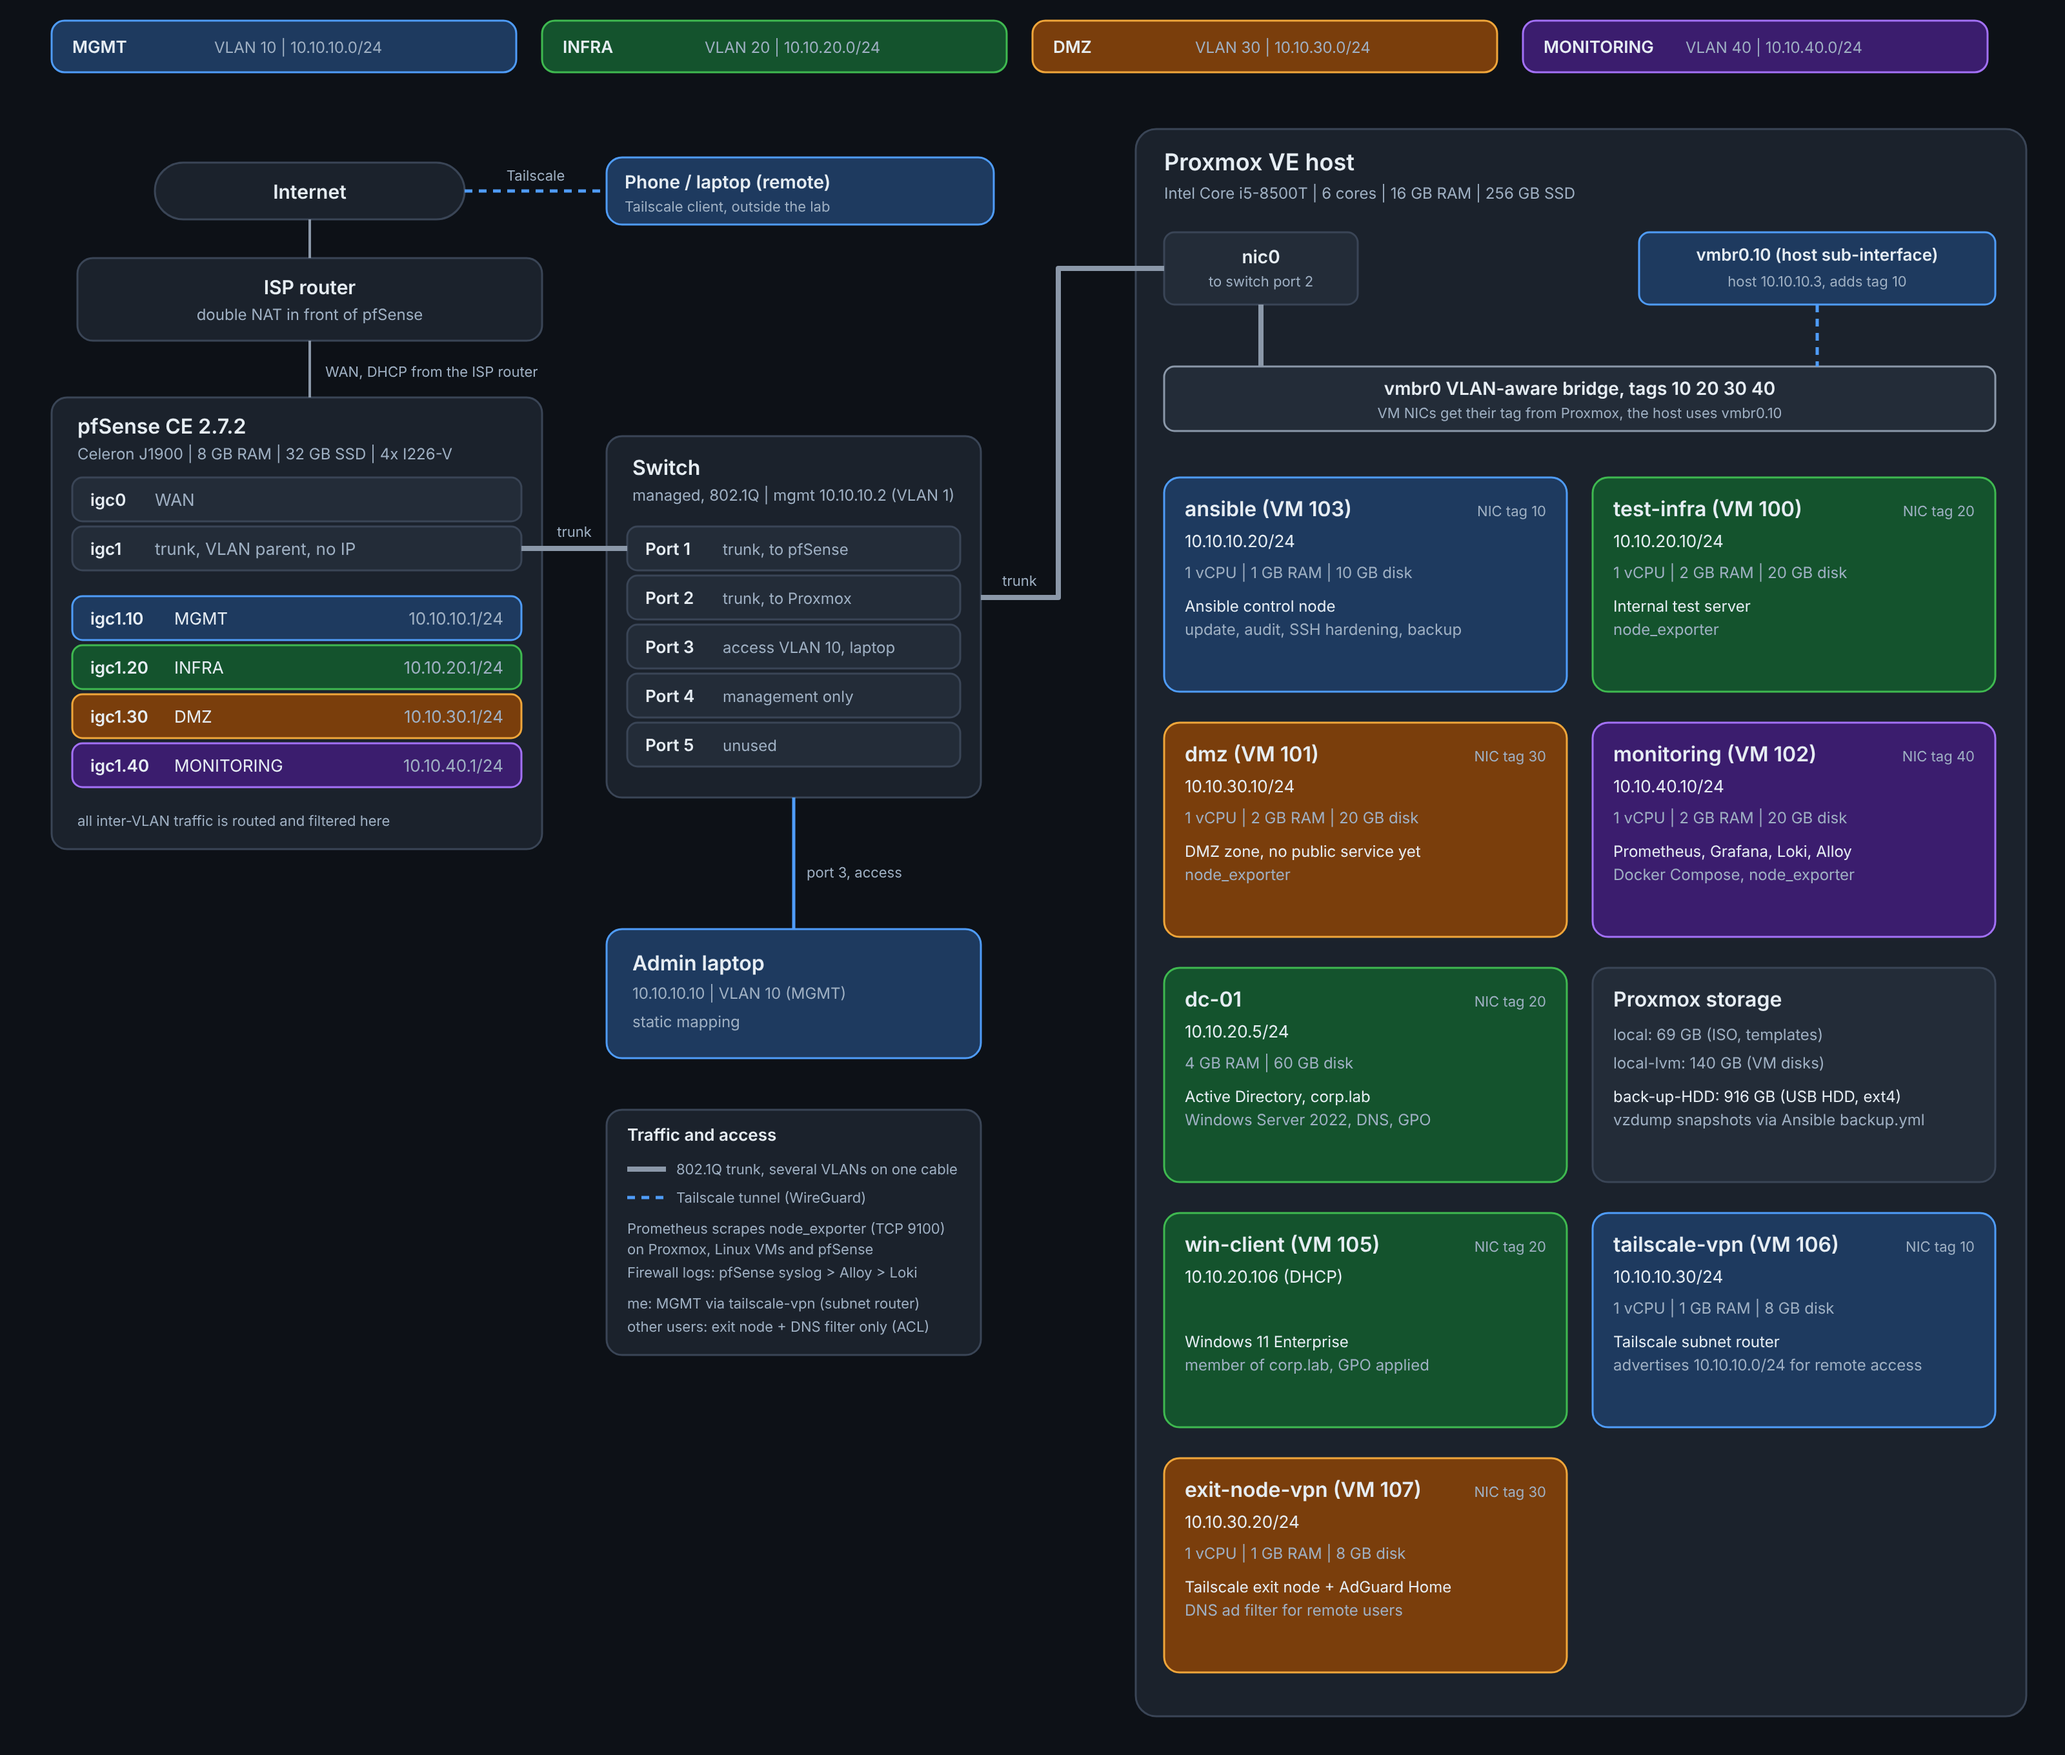
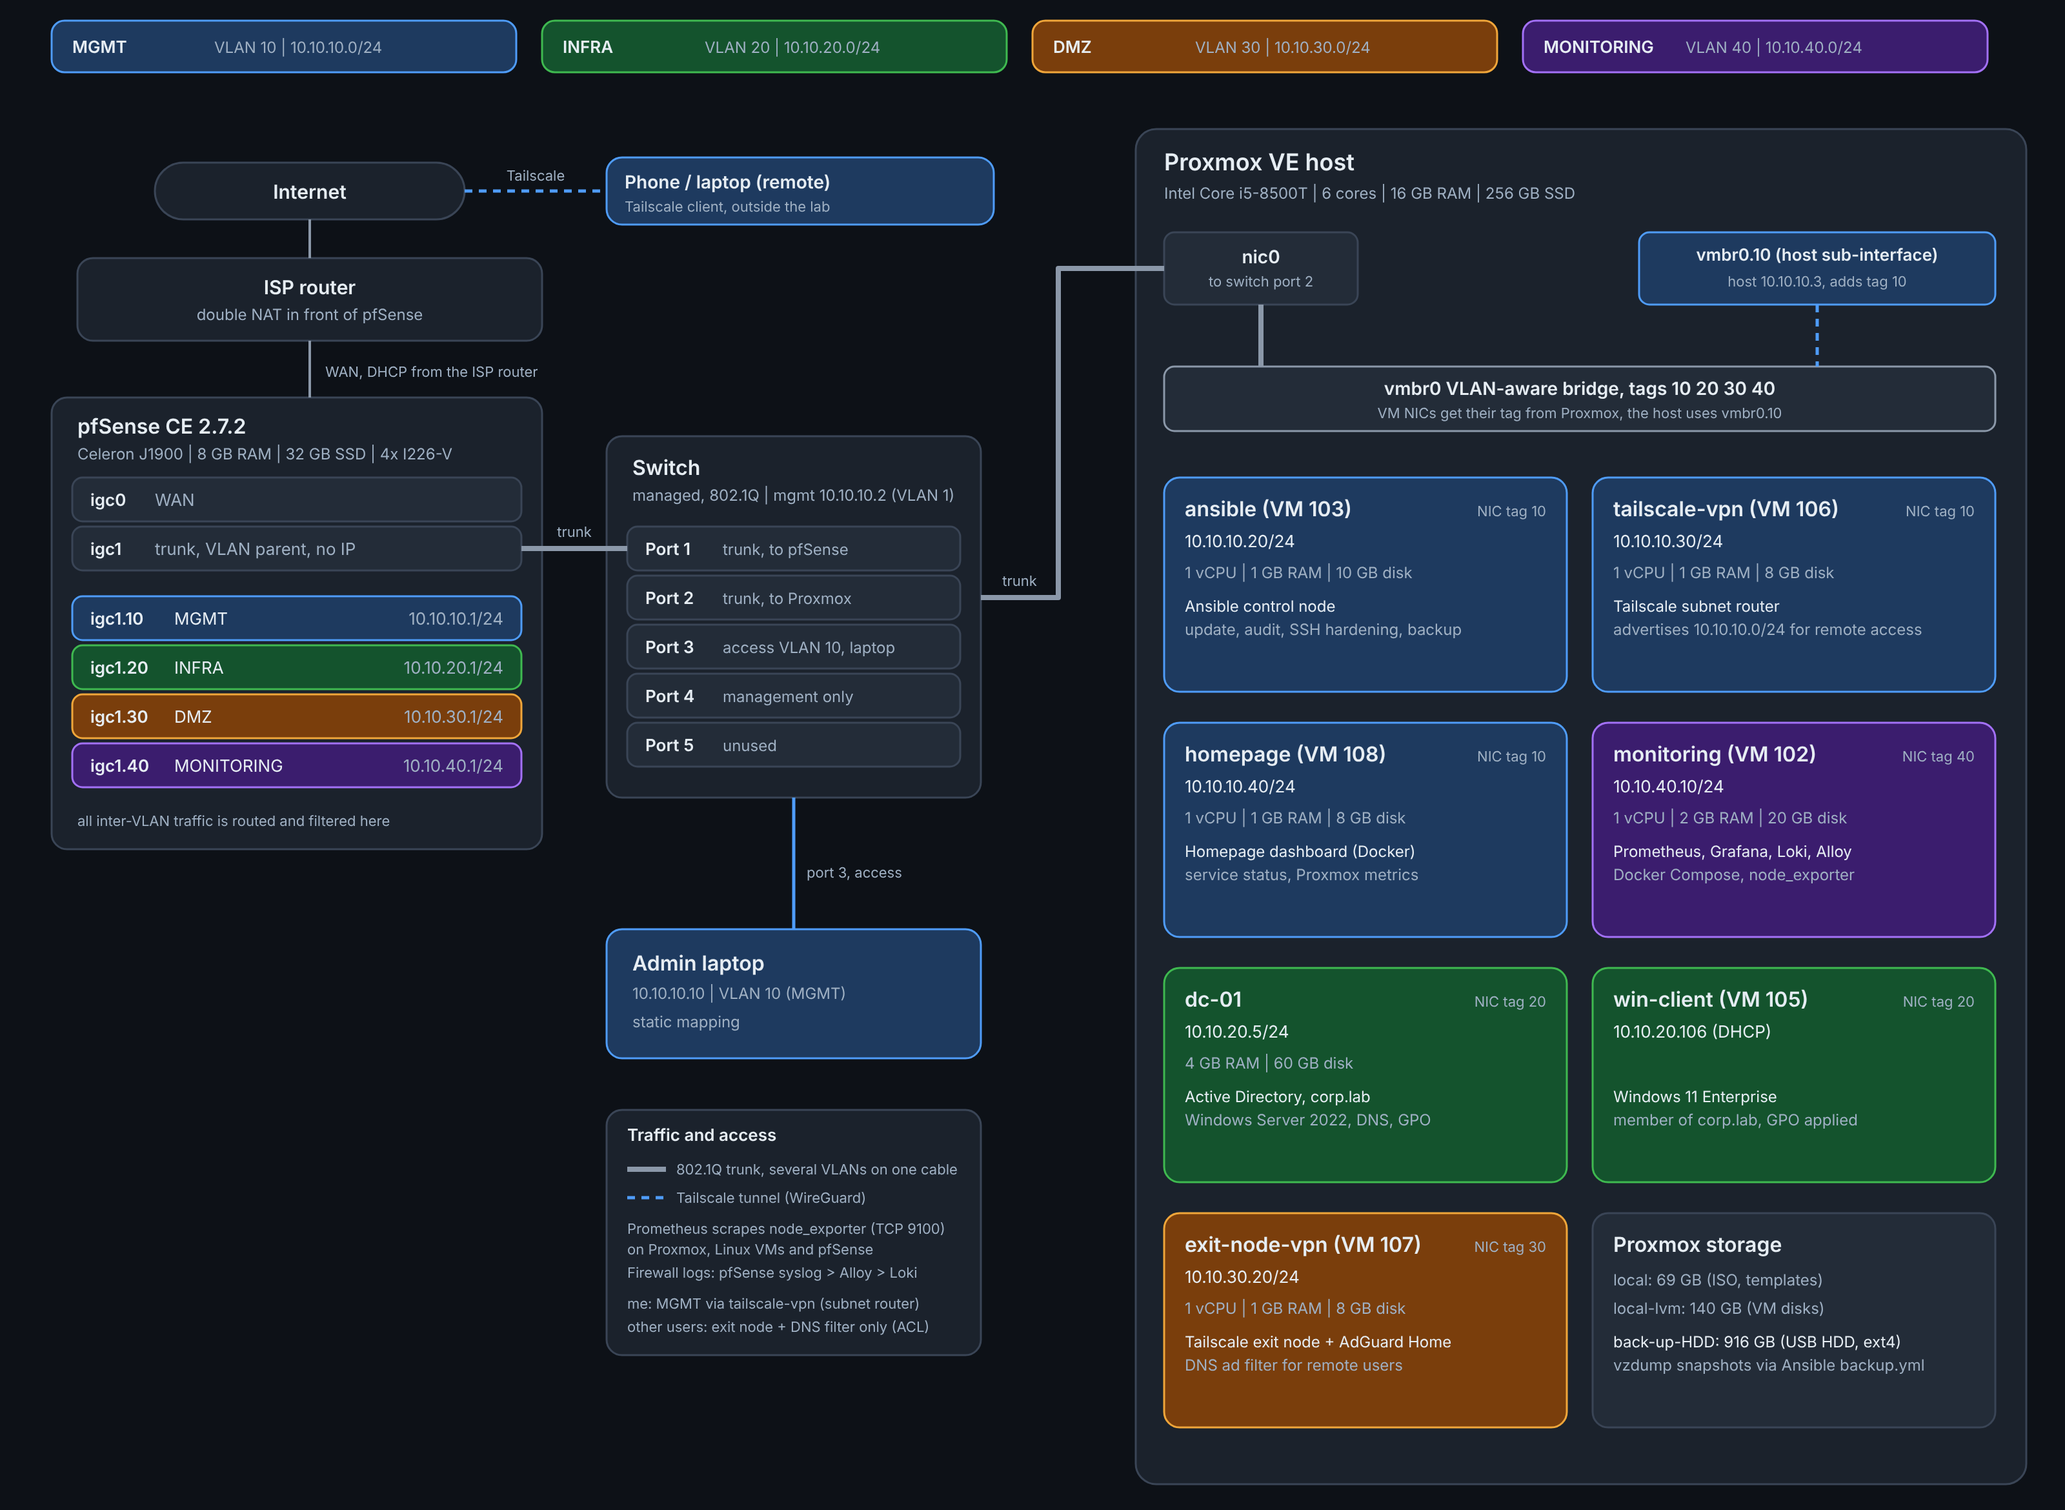
Homepage dashboard added, test vms removed, updated docs and diagram

diff --git a/docs/03-firewall-rules.md b/docs/03-firewall-rules.md
@@ -16,7 +16,7 @@
 | RFC1918 | Network | 10.0.0.0/8, 172.16.0.0/12, 192.168.0.0/16 |
 | web_ports | Port | 80, 443 |
 | ADMIN_HOSTS | Host | 10.10.10.10 (admin laptop), 10.10.10.20 (ansible) |
-| NODE_EXPORTERS | Host | 10.10.10.3, 10.10.20.10, 10.10.30.10, 10.10.40.1 |
+| NODE_EXPORTERS | Host | 10.10.10.3, 10.10.40.1 |
 
 ## Pattern
 
@@ -24,27 +24,33 @@ For each restricted zone the order is: narrow *pass* exceptions, then a logged *
 
 ## MGMT (VLAN 10)
 
-Admin workstation: 10.10.10.10 (static mapping). Ansible control node `ansible`: 10.10.10.20. VPN node `tailscale-vpn`: 10.10.10.30. Proxmox: 10.10.10.3. Rules 2, 6 and 7 use the alias `ADMIN_HOSTS`, so Ansible reaches the VMs on TCP/22 only, like an administrator. Every exception sits above the block rule (9): a pass rule for a private address placed below it would never match.
+Admin workstation: 10.10.10.10 (static mapping). Ansible control node `ansible`: 10.10.10.20. VPN node `tailscale-vpn`: 10.10.10.30. Dashboard VM `homepage`: 10.10.10.40. Proxmox: 10.10.10.3. Rules 6, 10 and 11 use the alias `ADMIN_HOSTS`, so Ansible reaches the VMs on TCP/22 only, like an administrator. Every exception sits above the block rule (13): a pass rule for a private address placed below it would never match.
 
 | # | Action | Proto | Source | Destination | Port | Note |
 |---|---|---|---|---|---|---|
-| 1 | Pass | TCP | 10.10.10.30 | MGMT address | 443 | pfSense admin GUI from the VPN node |
-| 2 | Pass | TCP | ADMIN_HOSTS | 10.10.20.5 | 3389 | RDP to dc-01 |
-| 3 | Pass | TCP | 10.10.10.10 | MGMT address | 443 | pfSense admin GUI |
-| 4 | Pass | TCP/UDP | MGMT subnet | MGMT address | 53 | DNS |
-| 5 | Pass | ICMP | MGMT subnet | MGMT address | n/a | Gateway ping |
-| 6 | Pass | TCP | ADMIN_HOSTS | 10.10.10.3 | proxmox_ports (22, 8006) | Proxmox GUI and SSH |
-| 7 | Pass | TCP | ADMIN_HOSTS | SSH_TARGETS | 22 | SSH to VMs |
-| 8 | Pass | TCP | 10.10.10.10 | 10.10.40.10 | monitoring_ports (3000, 9090) | Grafana, Prometheus |
-| 9 | Block (log) | any | MGMT subnet | RFC1918 | any | "block internal networks" |
-| 10 | Pass | TCP | MGMT subnet | any | web_ports | Updates, Tailscale control and relay traffic |
-| 11 | Pass | UDP | MGMT subnet | any | 123 | NTP |
+| 1 | Pass | TCP | 10.10.10.40 | 10.10.10.1 | 443 | Homepage status check of the pfSense GUI |
+| 2 | Pass | TCP | 10.10.10.40 | 10.10.30.20 | 80 | Homepage status check of AdGuard Home |
+| 3 | Pass | TCP | 10.10.10.40 | 10.10.40.10 | monitoring_ports (3000, 9090) | Homepage status checks and Prometheus metrics |
+| 4 | Pass | TCP | 10.10.10.30 | 10.10.40.10 | monitoring_ports (3000, 9090) | Grafana and Prometheus from the VPN node |
+| 5 | Pass | TCP | 10.10.10.30 | MGMT address | 443 | pfSense admin GUI from the VPN node |
+| 6 | Pass | TCP | ADMIN_HOSTS | 10.10.20.5 | 3389 | RDP to dc-01 |
+| 7 | Pass | TCP | 10.10.10.10 | MGMT address | 443 | pfSense admin GUI |
+| 8 | Pass | TCP/UDP | MGMT subnet | MGMT address | 53 | DNS |
+| 9 | Pass | ICMP | MGMT subnet | MGMT address | n/a | Gateway ping |
+| 10 | Pass | TCP | ADMIN_HOSTS | 10.10.10.3 | proxmox_ports (22, 8006) | Proxmox GUI and SSH |
+| 11 | Pass | TCP | ADMIN_HOSTS | SSH_TARGETS | 22 | SSH to VMs |
+| 12 | Pass | TCP | 10.10.10.10 | 10.10.40.10 | monitoring_ports (3000, 9090) | Grafana, Prometheus |
+| 13 | Block (log) | any | MGMT subnet | RFC1918 | any | "block internal networks" |
+| 14 | Pass | TCP | MGMT subnet | any | web_ports | Updates, Tailscale control and relay traffic, Homepage weather widget |
+| 15 | Pass | UDP | MGMT subnet | any | 123 | NTP |
 
-The former temporary *pass any* rule was removed. pfSense's built-in anti-lockout rule only covers the LAN interface, which no longer has an address, so rule 3 is what keeps the GUI reachable from the admin laptop: keep it above the block rule and keep a config backup and console access before editing MGMT rules.
+The former temporary *pass any* rule was removed. pfSense's built-in anti-lockout rule only covers the LAN interface, which no longer has an address, so rule 7 is what keeps the GUI reachable from the admin laptop: keep it above the block rule and keep a config backup and console access before editing MGMT rules.
 
-Rule 1 exists because the VPN node reaches pfSense itself. Proxmox and other hosts in 10.10.10.0/24 are in the same subnet as the VPN node, so that traffic does not pass through pfSense and needs no rule.
+Rules 4 and 5 exist because remote traffic leaves the VPN node with its own address as source. Proxmox and other hosts in 10.10.10.0/24 share the subnet with the VPN node, so that traffic does not pass through pfSense and needs no rule. The pfSense GUI (its own address) and the monitoring host (another zone) do.
 
-Additional aliases: `SSH_TARGETS` (10.10.20.10, 10.10.30.10, 10.10.30.20, 10.10.40.10), `proxmox_ports` (22, 8006), `monitoring_ports` (3000, 9090).
+Rules 1 to 3 give the Homepage VM exactly the three destinations it has to reach and nothing else. The VM is not part of `ADMIN_HOSTS`, because that alias also opens SSH and the Proxmox GUI. Opening a link on the dashboard is done by the browser of the person who clicks it, so these rules only cover the status indicators and the Prometheus queries.
+
+Additional aliases: `SSH_TARGETS` (10.10.10.30, 10.10.30.20, 10.10.40.10), `proxmox_ports` (22, 8006), `monitoring_ports` (3000, 9090).
 
 Note: in a pfSense rule, `22 - 8006` is a *range* of about 8000 ports. Use a port alias for a list.
 

diff --git a/docs/05-monitoring.md b/docs/05-monitoring.md
@@ -7,8 +7,6 @@ Prometheus (pull model) runs in Docker on the `monitoring` VM (10.10.40.10, VLAN
 | Job | Target | Label |
 |---|---|---|
 | proxmox | 10.10.10.3:9100 | |
-| vms | 10.10.20.10:9100 | test-infra |
-| vms | 10.10.30.10:9100 | dmz |
 | vms | 10.10.40.10:9100 | monitoring |
 | pfsense | 10.10.40.1:9100 | pfsense |
 
@@ -48,6 +46,16 @@ pfSense (remote syslog, UDP 1514, RFC 5424) -> Alloy -> Loki -> Grafana
 - Grafana: Loki data source `http://loki:3100`. Dashboard: [pfsense-firewall-logs.json](../configs/monitoring/dashboards/pfsense-firewall-logs.json) (import it and pick the Loki data source).
 - Alloy keeps only the message body, so a `filterlog` line starts with the rule number. The dashboard parses the CSV fields (`rule`, `tracker`, `iface`, `action`, `src`, `dst`, `proto`, `sport`, `dport`) with a LogQL `regexp` stage.
 - Interfaces map to zones: `igc1.10` MGMT, `igc1.20` INFRA, `igc1.30` DMZ, `igc1.40` MONITORING, `igc0` WAN. WAN default-deny noise (broadcasts from the home network) is shown separately so it does not hide the zone blocks.
+
+## Homepage dashboard
+
+The VM `homepage` (VM 108, 10.10.10.40, MGMT) runs [Homepage](https://gethomepage.dev) in Docker as a single start page for the lab: one tile per service with a status indicator, and the Proxmox host metrics taken from Prometheus (temperature, CPU, RAM, root disk). Files: [configs/homepage](../configs/homepage).
+
+- Status indicators (`siteMonitor`) are checked by the container itself, so MGMT has three narrow rules for it (rules 1 to 3 in [03 Firewall rules](03-firewall-rules.md)). A tile link is opened by the visitor's browser, not by the VM.
+- Metrics use the `prometheusmetric` widget with PromQL queries against `http://10.10.40.10:9090`. The Proxmox temperature comes from `node_hwmon_temp_celsius` (lm-sensors on the host, exposed by node_exporter).
+- The pfSense box (J1900) exposes no temperature sensor, so only the Proxmox host shows temperature.
+- No secrets are needed: the widgets read Prometheus without credentials. A Proxmox API token or a Tailscale API key would be kept in an untracked `.env` file (see `.gitignore`).
+- The wallpaper and personal bookmarks are not stored in the repository.
 
 ## Retention and persistence
 

diff --git a/docs/01-topology.md b/docs/01-topology.md
@@ -42,11 +42,15 @@ pfSense sits behind the ISP router (double NAT). Outbound access is unaffected. 
 
 ## Remote access
 
-The VM `tailscale-vpn` (10.10.10.30, MGMT) is a Tailscale subnet router. It advertises only `10.10.10.0/24`, so a remote laptop or phone reaches MGMT hosts as if it were on the cable. No port is forwarded: the VM connects out to Tailscale, and the double NAT in front of pfSense does not matter.
+The VM `tailscale-vpn` (10.10.10.30, MGMT) is a Tailscale subnet router. It advertises `10.10.10.0/24` and one extra host route, `10.10.40.10/32` (Grafana and Prometheus), so a remote laptop or phone reaches MGMT hosts and the monitoring host as if it were on the cable. The route is a single host on purpose: the rest of the MONITORING zone stays unreachable from the VPN. No port is forwarded: the VM connects out to Tailscale, and the double NAT in front of pfSense does not matter.
 
-- Remote traffic leaves the VM with its own address as source (10.10.10.30), so rule 1 in MGMT is needed to open the pfSense GUI. Other zones are not advertised and stay unreachable from the VPN.
+- Remote traffic leaves the VM with its own address as source (10.10.10.30), so rules 1 and 2 in MGMT are needed to open Grafana, Prometheus and the pfSense GUI. Other zones are not advertised and stay unreachable from the VPN.
 - Login uses an external identity account with two-factor authentication. Key expiry is disabled for the node so the route does not drop silently.
 - Client devices use `tailscale up --accept-routes` (Linux) or the app on a phone.
+
+### Dashboard
+
+The VM `homepage` (10.10.10.40, MGMT) shows the state of the lab on one page; see [05 Monitoring](05-monitoring.md).
 
 ### Exit node and DNS filter for remote users
 

diff --git a/docs/04-verification.md b/docs/04-verification.md
@@ -1,6 +1,6 @@
 # 04. Verification
 
-Every rule is tested from the zone it applies to. Results are from the built lab. Screenshots: [screenshots/verification](../screenshots/verification).
+Every rule is tested from the zone it applies to. Results are from the built lab. Tests 1 to 17 used two small test VMs (`test-infra` in INFRA and `dmz` in DMZ), which were removed afterwards to free resources; the rules they exercised were not changed. Screenshots: [screenshots/verification](../screenshots/verification).
 
 | # | From | Test | Expected | Result |
 |---|---|---|---|---|
@@ -26,6 +26,8 @@ Every rule is tested from the zone it applies to. Results are from the built lab
 | 20 | Phone on mobile data | Tailscale on, `exit-node-vpn` selected, open an "IP address" website | Home ISP address instead of the mobile operator's | Pass |
 | 21 | exit-node-vpn | `dig @127.0.0.1 doubleclick.net +short` | Blocked (query log: "Blocked", AdGuard DNS filter) | Pass |
 | 22 | Tailscale access policy | Policy `tests`: restricted user to Proxmox, pfSense GUI, VPN node, AdGuard panel | Denied; DNS (53) on the exit node allowed | Pass |
+| 23 | Phone or laptop on Tailscale | Open `http://10.10.40.10:3000` (Grafana) and `:9090` (Prometheus) | Both open | Pass |
+| 24 | homepage (MGMT) | Dashboard status indicators for pfSense GUI, AdGuard Home, Grafana, Prometheus; Proxmox widget values from Prometheus | All indicators green, metrics shown | Pass |
 
 ## Useful commands
 

diff --git a/docs/02-vlans-addressing.md b/docs/02-vlans-addressing.md
@@ -19,10 +19,12 @@
 | Admin laptop | MGMT | 10.10.10.10 (static mapping) |
 | ansible (VM 103) | MGMT | 10.10.10.20 (static mapping) |
 | tailscale-vpn (VM 106) | MGMT | 10.10.10.30 (static, set in the VM) |
-| test-infra (VM 100) | INFRA | 10.10.20.10 |
-| dmz (VM 101) | DMZ | 10.10.30.10 |
+| homepage (VM 108) | MGMT | 10.10.10.40 (static, set in the VM) |
+| dc-01 | INFRA | 10.10.20.5 |
 | exit-node-vpn (VM 107) | DMZ | 10.10.30.20 (static, set in the VM) |
 | monitoring (VM 102) | MONITORING | 10.10.40.10 |
+
+The INFRA test VM (`test-infra`, VM 100) and the DMZ test VM (`dmz`, VM 101) used for the first rule tests were removed afterwards to free resources. INFRA is represented by the domain controller and the Windows client, DMZ by the exit node.
 
 The MGMT DHCP server uses "allow known clients from only this interface", so unknown devices do not receive a lease.
 
@@ -34,7 +36,7 @@ Key points:
 
 - `vmbr0` is VLAN-aware and carries VLANs 10, 20, 30, 40 on the physical port `nic0`.
 - The host address is on **`vmbr0.10`**, not on `vmbr0`. An address on `vmbr0` itself would send untagged frames, which the switch trunk places into VLAN 1.
-- VM NICs use VirtIO on `vmbr0` with the VLAN tag set per VM (20, 30, 40).
+- VM NICs use VirtIO on `vmbr0` with the VLAN tag set per VM (10, 20, 30, 40).
 - All VMs are set to start at boot.
 
 ## Design note: why the switch management stays in VLAN 1

diff --git a/README.md b/README.md
@@ -74,6 +74,7 @@ pfSense CE 2.7.2, Proxmox VE, Debian 13, Windows Server 2022 (Active Directory, 
 - [x] Backup storage on a separate HDD
 - [x] Admin remote access into MGMT (Tailscale subnet router)
 - [x] VPN exit node in DMZ with DNS ad filtering (AdGuard Home) and a restrictive Tailscale access policy
+- [x] Homepage dashboard (service status and Proxmox metrics from Prometheus)
 - [ ] Suricata IDS on the DMZ
 - [ ] DMZ service published through a Cloudflare Tunnel
 - [ ] Hybrid cloud connectivity (site-to-site VPN, then BGP)
